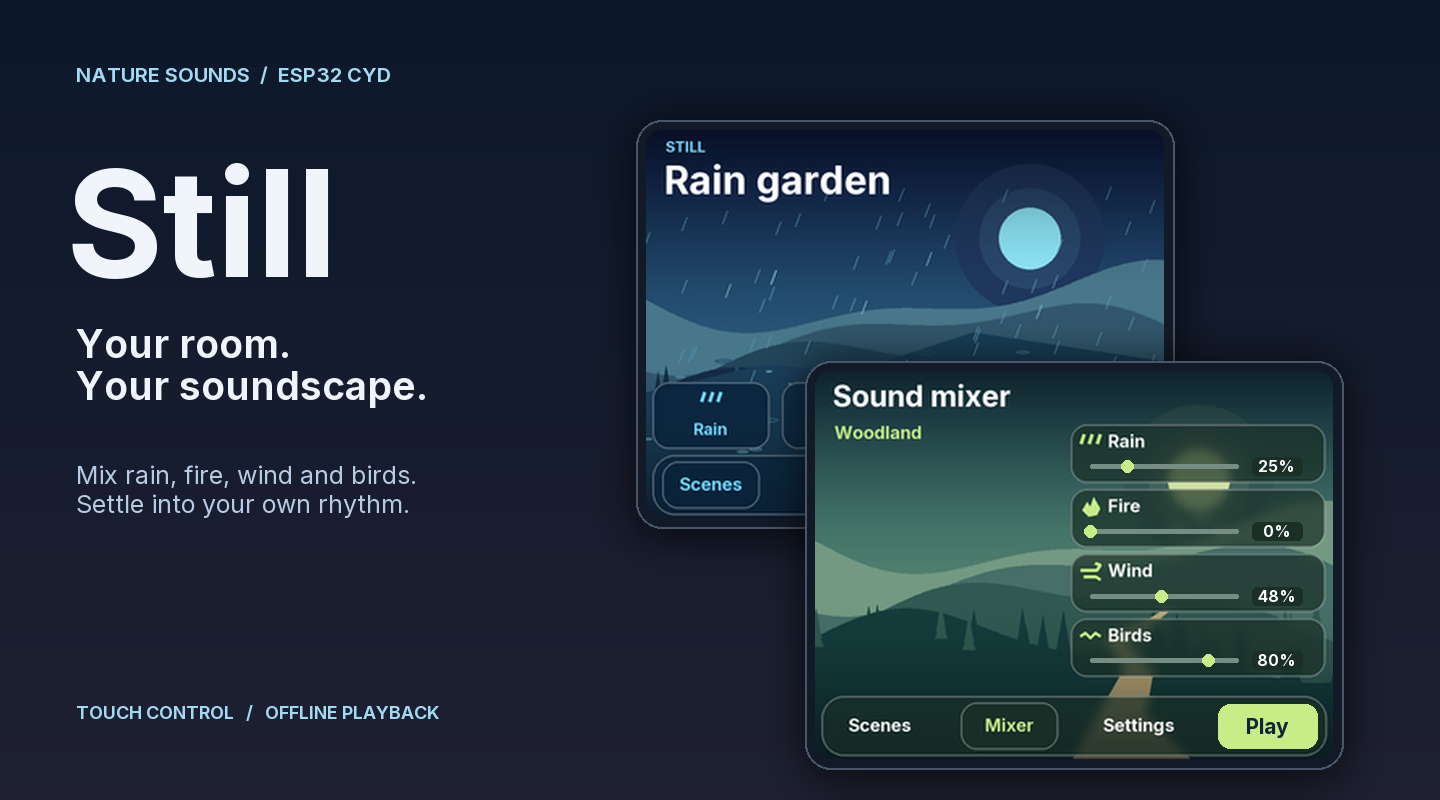
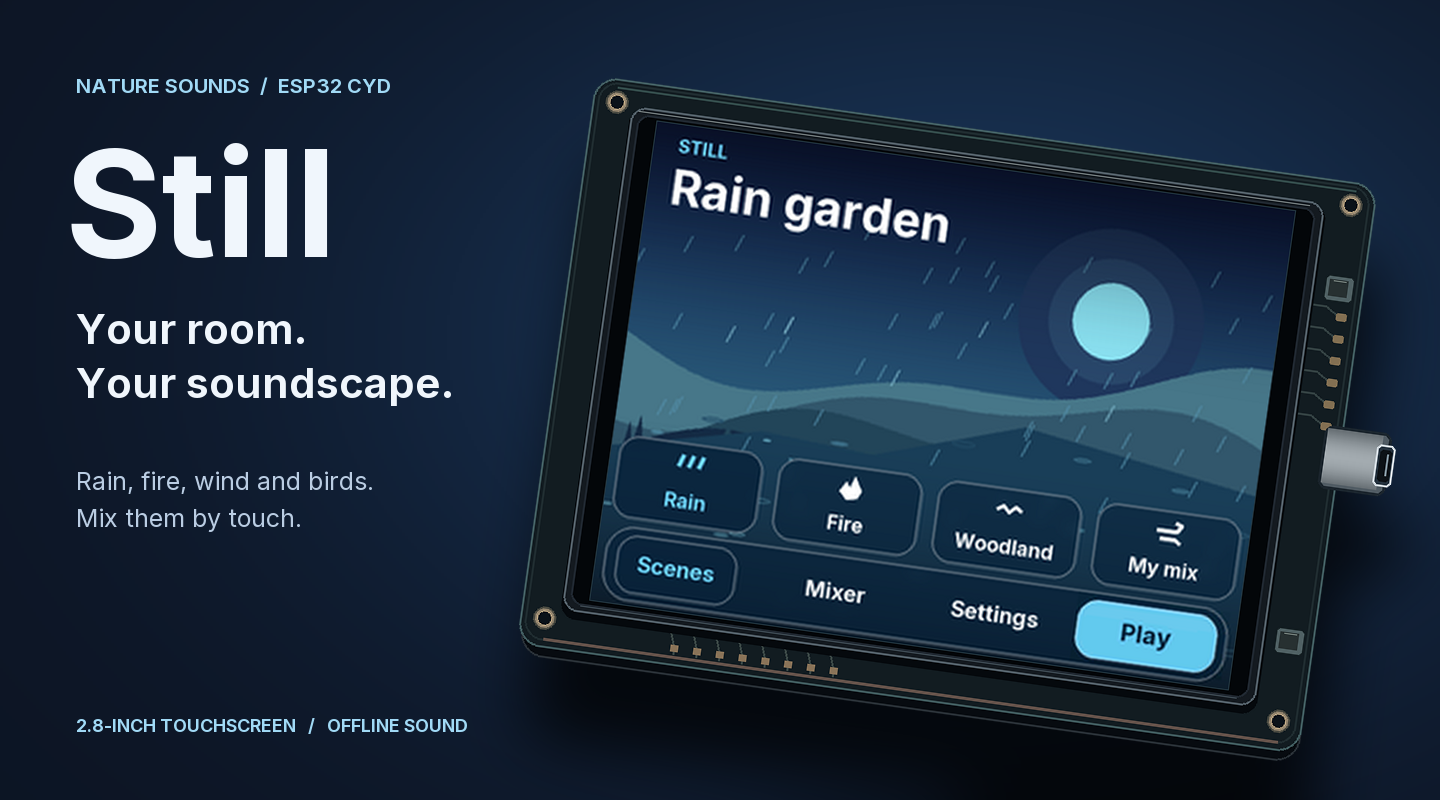
Show the CYD hardware in the Still cover

diff --git a/README.md b/README.md
@@ -2,7 +2,7 @@
 
 # Still
 
-<img src="images/still-poster.png" alt="Still product poster with the Rain garden and Woodland mixer screens" width="100%">
+<img src="images/still-poster.png" alt="Still product poster showing the Rain garden interface on an ESP32 CYD board mockup" width="100%">
 
 ### A little screen for a quieter room.
 
